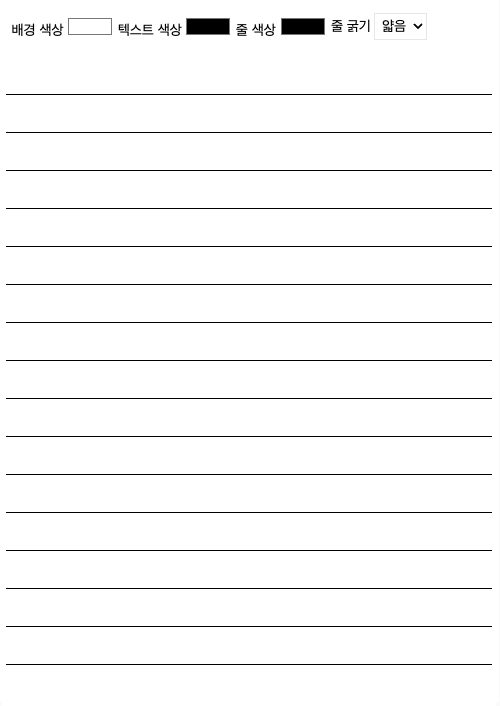
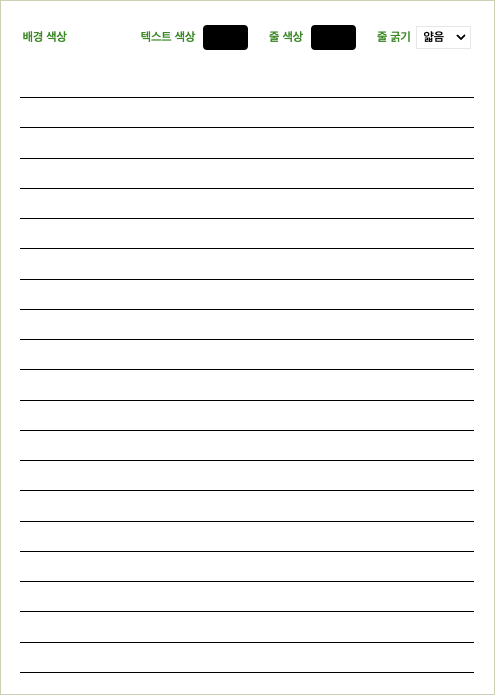
[💄 style] 파치먼트 옵션 모달 반응형 및 디자인 구현

diff --git a/src/components/molecules/bottomsheet/ParchmentOptionsModal.tsx b/src/components/molecules/bottomsheet/ParchmentOptionsModal.tsx
@@ -159,22 +159,54 @@ const ParchmentOptionsModal: React.FC = () => {
       className="fixed inset-0 bg-black bg-opacity-50 flex items-center justify-center"
       onClick={toggleParchmentOptionModal}
     >
-      <div className="bg-white p-4 rounded shadow-lg w-[85%] max-w-4xl" onClick={(e) => e.stopPropagation()}>
-        <h2 className="mb-4 text-lg font-semibold">속지 선택</h2>
-        <div className="grid grid-cols-4 gap-4">
-          {parchments.map((parchment) => (
-            <div key={parchment.id} className="border p-2 cursor-pointer" onClick={() => handleAddPage(parchment)}>
-              <img src={parchment.url} alt={`Page ${parchment.id}`} />
-            </div>
-          ))}
-          {/* 4개 이상의 파치먼트 옵션이 생기면 생성
+      {windowWidth < 768 ? (
+        <div
+          className="bg-white rounded-[2rem]  w-[38rem] h-[56.7rem] py-[2rem] px-[2.4rem] flex flex-col gap-[0.8rem]"
+          onClick={(e) => e.stopPropagation()}
+        >
+          <h2 className="text-[2.2rem] font-[600]">속지 추가</h2>
+          <div className="grid grid-cols-2 gap-[1rem] ">
+            {parchments.map((parchment) => (
+              <div
+                key={parchment.id}
+                className="w-[16rem] h-[24rem] border-[0.15rem] border-[#008A02] cursor-pointer relative flex items-end justify-center"
+                onClick={() => handleAddPage(parchment)}
+              >
+                <div className="absolute top-[1.2rem] h-[2.5rem] bg-[#008A02] rounded-[0.4rem] flex justify-center items-center text-white">
+                  <div className=" h-[2.2rem] px-[0.85rem] text-[1.4rem]">{parchment.name}</div>
+                </div>
+                <img src={parchment.url} alt={`Page ${parchment.id}`} />
+              </div>
+            ))}
+          </div>
+        </div>
+      ) : (
+        <div
+          className="bg-white rounded-[2rem]  w-[77.9rem] h-[47.25rem] p-[4rem] flex flex-col gap-[2rem]"
+          onClick={(e) => e.stopPropagation()}
+        >
+          <h2 className="text-[2.8rem] font-[600]">속지 선택</h2>
+          <div className="flex flex-row justify-center gap-[1rem] ">
+            {parchments.map((parchment) => (
+              <div
+                key={parchment.id}
+                className="w-[22.5rem] h-[33.75rem] border-[0.2rem] border-[#008A02] cursor-pointer relative flex items-end justify-center"
+                onClick={() => handleAddPage(parchment)}
+              >
+                <div className="absolute top-[1.2rem] h-[2.5rem] bg-[#008A02] rounded-[0.4rem] flex justify-center items-center text-white">
+                  <div className=" h-[2.2rem] px-[1.2rem] text-[1.8rem]">{parchment.name}</div>
+                </div>
+                <img src={parchment.url} alt={`Page ${parchment.id}`} />
+              </div>
+            ))}
+            {/* 4개 이상의 파치먼트 옵션이 생기면 생성
            {parchments.slice(currentOptionPage, currentOptionPage + 4).map((parchment) => (
             <div key={parchment.id} className="border p-2 cursor-pointer" onClick={() => handleAddPage(parchment)}>
               <img src={parchment.url} alt={`Page ${parchment.id}`} />
             </div>
           ))} */}
-        </div>
-        {/*  4개 이상의 파치먼트 옵션이 생기면 생성
+          </div>
+          {/*  4개 이상의 파치먼트 옵션이 생기면 생성
 
         <div className="flex justify-between mt-4">
           <button
@@ -192,7 +224,8 @@ const ParchmentOptionsModal: React.FC = () => {
             다음
           </button>
         </div> */}
-      </div>
+        </div>
+      )}
     </div>
   );
 };

diff --git a/src/lib/utils/parchment.ts b/src/lib/utils/parchment.ts
@@ -2,10 +2,11 @@ export type ParchmentType = {
   id: number;
   parchmentStyle: string;
   url: string;
+  name: string;
 };
 
 export const parchments = [
-  { id: 1, parchmentStyle: 'tenMinPlanner', url: '/images/tenMinPlannerImage.png' },
-  { id: 2, parchmentStyle: 'lineNote', url: '/images/lineNoteImage.png' },
-  { id: 3, parchmentStyle: 'blankNote', url: '/images/blankNoteImage.png' }
+  { id: 1, parchmentStyle: 'tenMinPlanner', url: '/images/tenMinPlannerImage.png', name: '10분 플래너' },
+  { id: 2, parchmentStyle: 'lineNote', url: '/images/lineNoteImage.png', name: '줄글 속지' },
+  { id: 3, parchmentStyle: 'blankNote', url: '/images/blankNoteImage.png', name: '무지 속지' }
 ];
